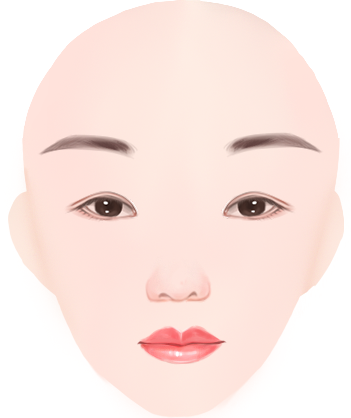
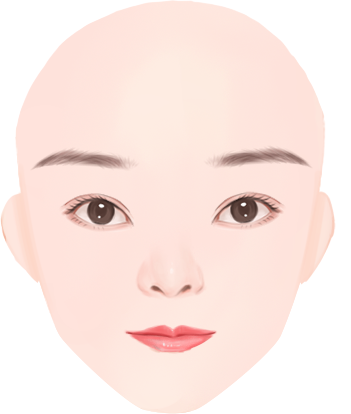
march

diff --git a/practice_one/Company/download/final_exam4.py b/practice_one/Company/download/final_exam4.py
@@ -165,6 +165,29 @@ def lip_dis_check(position, hou):
     return out_position
 
 
+def eyebrow_hei_check(position, hei):
+    out_position = position
+    ratio_in = (out_position[1][1] - out_position[0][1]) / hei
+    ratio_max = 0.20
+    ratio_min = 0.17
+    ratio_out = min(max(ratio_in, ratio_min), ratio_max)
+
+    dis_in = ratio_out * hei
+    dis_min = 45
+    dis_max = 48
+    dis_out = min(max(dis_in, dis_min), dis_max)
+    print(dis_out)
+    print(ratio_out)
+    out_position[0][1] = out_position[1][1] - dis_out
+    out_position[-2][1] = out_position[1][1] - dis_out
+    # 0.2286 ok
+    # 0.14 close
+    # 0.25 far
+    # 0.239 far
+    print('----222----', (out_position[1] - out_position[0])[1])
+    return out_position
+
+
 def merge_all(real_width, real_height, real_points, feature_index):
     skin_color = 1
     face_id = feature_index['chin']
@@ -186,6 +209,9 @@ def merge_all(real_width, real_height, real_points, feature_index):
     # leb,leye,nose,lip,chin,reb,reye
     last_position = norm_real_points + chin_point
     last_position = eye_dis_check(last_position, face_data[0])
+
+    last_position = eyebrow_hei_check(last_position, ear_height)
+
     last_position = nose_dis_check(last_position)
     hou = CartoonPoint['lip'][feature_index['lip'] - 1][2]
     last_position = lip_dis_check(last_position, hou)
@@ -299,6 +325,6 @@ def one_dir(dir):
 
 
 if __name__ == "__main__":
-    i = 2
+    i = 7
     file = 'check/{}.jpg'.format(i)
     one_file(file)

diff --git a/practice_one/Company/download/download_material.py b/practice_one/Company/download/download_material.py
@@ -240,4 +240,4 @@ def update_one_lip_material(lip_obj, img_domain):
 
 
 if __name__ == '__main__':
-    download_lip_material()
+    update_position()
